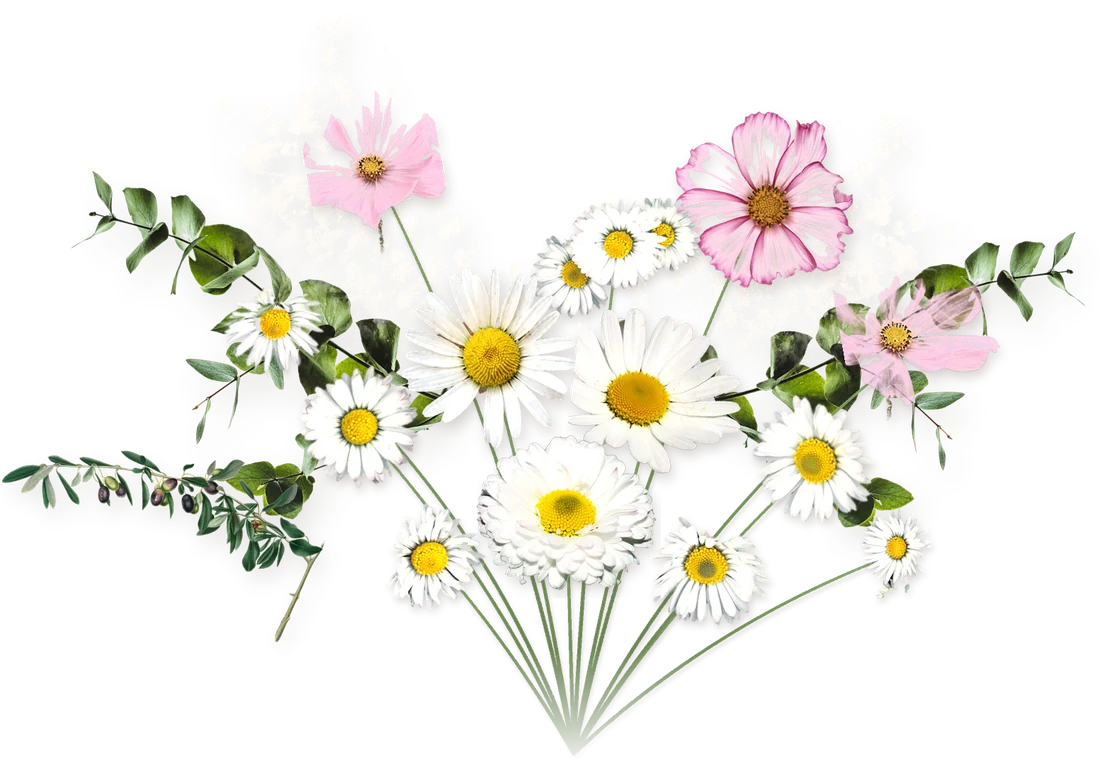
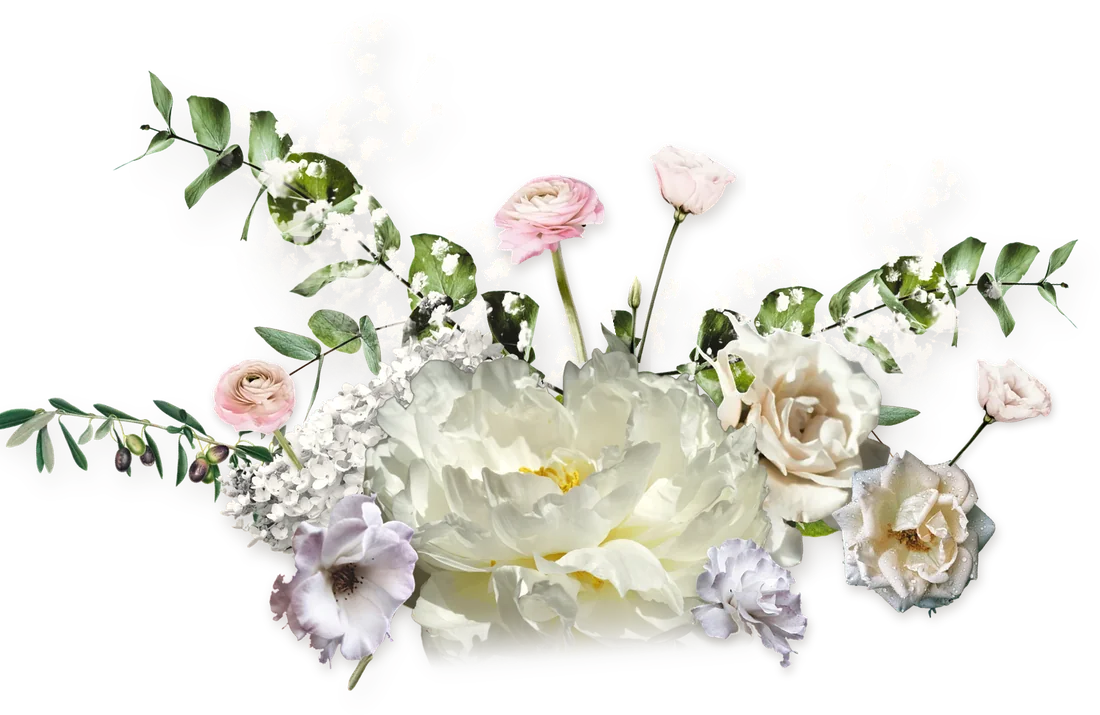
白色教堂：首頁的花改回原本的，往下捲的花換成整束真的小雛菊與波斯菊照片
- hero 窗框旁的兩簇花、範例頁文案與縮圖回到上一版
- 區塊標題的四束花改成整張照片直接去背，不再拼花、不畫莖：
  當日流程一束洋甘菊、小提醒三朵淡粉波斯菊、交通資訊一把小雛菊、出席回覆三朵波斯菊
- 倒數卡角上改成一朵淡粉波斯菊和一朵小雛菊
- 飄落的花保留雛菊瓣、淡粉波斯菊瓣與一整朵小雛菊
- 頁尾拿掉花，只留教堂的長椅；照片改成 cover，手機上不再露出照片上緣的接縫
- README 更新素材出處

Claude-Session: https://claude.ai/code/session_01A5i8X5BAqEyPRHZmwsGJnn

diff --git a/public/css/lobby-chapel.css b/public/css/lobby-chapel.css
@@ -8,9 +8,9 @@
              整座教堂變成白天的樣子 —— 大廳就是那個白天
      材質    有抹刀痕與細顆粒的乳白灰泥牆（不是純白）、被風吹動的透光白紗、
              彩繪玻璃落下的幾彩光暈、毛玻璃、霧面香檳金的細線
-     鮮花    窗框的腳下與肩上各一簇、區塊標題上一束一束、倒數卡的角上一小簇、頁尾一長排
-             （白色小雛菊為主、淡粉波斯菊次之，點綴香豌豆、洋桔梗，綠葉是尤加利、橄欖、滿天星；
-             真的照片去背後拼成的花藝，莖是畫的，鬆鬆地束在一起），一路飄著花瓣與小雛菊
+     鮮花    窗框的腳下與肩上各一簇（洋牡丹、洋桔梗、玫瑰、芍藥、繡球、滿天星、尤加利，真的照片去背後拼成的花藝）；
+             往下捲看到的花都是小雛菊與淡粉波斯菊：區塊標題上一束一束（整束真的照片去背）、倒數卡的角上一朵，
+             一路飄著雛菊瓣、淡粉波斯菊瓣與一整朵小雛菊
      背景    從頭到尾同一片灰泥牆，中間不穿插別的背景照片；偶爾有窗外的光打進來；
              最底下回到同一座教堂（照片的下半，一排一排的長椅）
      植物    鏡頭前失焦的橄欖枝（照片）、牆上晃動的橄欖枝影子、香檳金線描的橄欖／尤加利
@@ -294,15 +294,15 @@ body[data-lobby="white-church"]{
 /* ---- 窗框旁的鮮花 ----
    放在名牌裡（名牌疊在窗框上面，花才壓得住窗框與名牌的角），位置用窗框的高度算：
    窗框寬 = 高 / 1.4，名牌頂端在窗框下緣往上 --ov 的地方。
-   一大簇在窗框左下的腳邊（小雛菊為主，兩三枝淡粉波斯菊斜斜伸出去，尤加利、橄欖、滿天星），一小簇在右上的肩膀 */
+   一大簇在窗框左下的腳邊（芍藥、玫瑰、繡球、滿天星，尤加利往兩邊伸），一小簇在右上的肩膀 */
 .mc-bloom{position:absolute;z-index:2;pointer-events:none;background:center/contain no-repeat;
   filter:drop-shadow(0 12px 14px rgba(90,76,60,.16));animation:mc-bloom 9s ease-in-out infinite alternate;}
-.mc-bloom.is-base{width:calc(var(--arch-h) * .92);aspect-ratio:1100/760;
-  left:calc(50% - var(--arch-h) / 2.8);top:calc(var(--ov) + 4px);translate:-67% -90%;
+.mc-bloom.is-base{width:calc(var(--arch-h) * .92);aspect-ratio:1100/715;
+  left:calc(50% - var(--arch-h) / 2.8);top:calc(var(--ov) + 4px);translate:-60% -90%;
   background-image:url(../img/chapel/bloom-arch.webp);transform-origin:50% 90%;}
-.mc-bloom.is-shoulder{width:calc(var(--arch-h) * .4);aspect-ratio:541/729;
-  left:calc(50% + var(--arch-h) / 2.8);top:calc(var(--ov) - var(--arch-h) * .62);translate:-22% -78%;
-  background-image:url(../img/chapel/bloom-shoulder.webp);transform-origin:8% 96%;animation-delay:-4s;}
+.mc-bloom.is-shoulder{width:calc(var(--arch-h) * .5);aspect-ratio:560/481;
+  left:calc(50% + var(--arch-h) / 2.8);top:calc(var(--ov) - var(--arch-h) * .7);translate:-38% -50%;
+  background-image:url(../img/chapel/bloom-shoulder.webp);transform-origin:20% 70%;animation-delay:-4s;}
 @keyframes mc-bloom{to{rotate:1.6deg;scale:1.015;}}
 /* 沒有新人照片（沒有窗框）：肩上那簇收起來，腳邊那簇改放在名牌的左上角 */
 .mc-hero:not(:has(.mc-hero-arch .has-photo)) .mc-bloom.is-shoulder{display:none;}
@@ -336,8 +336,8 @@ body[data-hero-name="cn"] .mc-hero .mc-names{font-family:'Noto Serif TC',serif;f
 @keyframes mc-daylight{from{filter:brightness(1.7) saturate(.4);}}
 @media (max-width:640px){
   .mc-hero .hashtags{display:none;}
-  .mc-bloom.is-base{width:calc(var(--arch-h) * .7);translate:-50% -98%;}
-  .mc-bloom.is-shoulder{width:calc(var(--arch-h) * .32);translate:-26% -78%;}
+  .mc-bloom.is-base{width:calc(var(--arch-h) * .72);translate:-42% -98%;}
+  .mc-bloom.is-shoulder{width:calc(var(--arch-h) * .38);translate:-52% -50%;}
   .mc-olive-fg{width:180px;left:-10%;top:-3%;}
   .mc-olive-fg.is-b{width:150px;right:-14%;bottom:-3%;}
   .mc-stain i:nth-child(3){display:none;}
@@ -381,15 +381,15 @@ body[data-hero-name="cn"] .mc-hero .mc-names{font-family:'Noto Serif TC',serif;f
   border-radius:50%;background:radial-gradient(closest-side,rgba(90,76,60,.2),transparent);}
 .mc-obj{display:block;height:100%;background:center bottom/contain no-repeat;
   filter:drop-shadow(0 16px 14px rgba(90,76,60,.18));}
-/* 婚禮資訊是一對戒指（Deena Englard／Unsplash，去背）；其他區塊是一束一束的小雛菊、波斯菊，每區各不相同（拼成的花藝，出處見 README）。
+/* 婚禮資訊是一對戒指（Deena Englard／Unsplash，去背）；其他區塊是一束一束的小雛菊、波斯菊（整束真的照片去背，出處見 README）。
    花束比較寬，放在中間、底部對齊 */
 .mc-obj.o-rings{width:clamp(150px,18vw,200px);height:auto;aspect-ratio:640/219;align-self:center;}
 .mc-obj.o-rings{background-image:url(../img/chapel/rings.webp);}
 .mc-obj.o-posy{width:clamp(200px,24vw,280px);height:auto;align-self:flex-end;filter:drop-shadow(0 12px 12px rgba(90,76,60,.14));}
-.mc-obj.o-posy.p1{aspect-ratio:640/413;background-image:url(../img/chapel/posy-1.webp);}
-.mc-obj.o-posy.p2{aspect-ratio:640/512;background-image:url(../img/chapel/posy-2.webp);}
-.mc-obj.o-posy.p3{aspect-ratio:640/468;background-image:url(../img/chapel/posy-3.webp);}
-.mc-obj.o-posy.p4{aspect-ratio:640/375;background-image:url(../img/chapel/posy-4.webp);}
+.mc-obj.o-posy.p1{width:clamp(170px,19vw,230px);aspect-ratio:640/544;background-image:url(../img/chapel/posy-1.webp);}
+.mc-obj.o-posy.p2{width:clamp(160px,17vw,210px);aspect-ratio:560/489;background-image:url(../img/chapel/posy-2.webp);}
+.mc-obj.o-posy.p3{width:clamp(210px,24vw,280px);aspect-ratio:680/377;background-image:url(../img/chapel/posy-3.webp);}
+.mc-obj.o-posy.p4{width:clamp(230px,27vw,320px);aspect-ratio:680/229;background-image:url(../img/chapel/posy-4.webp);}
 .mc-head .block-title{margin:0;font:400 clamp(26px,3.6vw,38px)/1.15 'Cinzel','Noto Serif TC',serif;letter-spacing:.12em;
   text-transform:none;color:var(--mc-ink);}
 .mc-head .block-sub{margin:0;font-size:13px;letter-spacing:.4em;color:var(--mc-soft);}
@@ -472,11 +472,11 @@ body[data-hero-name="cn"] .mc-hero .mc-names{font-family:'Noto Serif TC',serif;f
 /* ---- 倒數：一塊毛玻璃（背景就是同一片牆） ---- */
 .mc-count .mc-band-inner{display:flex;justify-content:center;}
 .mc-count-body{padding:clamp(28px,4vw,44px) clamp(22px,5vw,56px);text-align:center;}
-/* 倒數卡的左上角斜插兩枝波斯菊、一朵小雛菊，莖收在卡片後面 */
-.mc-count-body::after{content:'';position:absolute;left:clamp(-110px,-8vw,-40px);top:clamp(-120px,-9vw,-70px);width:clamp(100px,12vw,150px);aspect-ratio:420/473;
+/* 倒數卡的左上角別著一朵淡粉波斯菊、旁邊一朵小雛菊 */
+.mc-count-body::after{content:'';position:absolute;left:clamp(-86px,-6vw,-30px);top:clamp(-84px,-6vw,-50px);width:clamp(96px,11vw,140px);aspect-ratio:420/381;
   background:url(../img/chapel/bloom-corner.webp) center/contain no-repeat;transform:rotate(-6deg);
   filter:drop-shadow(0 10px 12px rgba(90,76,60,.16));pointer-events:none;}
-@media (max-width:640px){.mc-count-body::after{left:-22px;top:-96px;width:92px;}}
+@media (max-width:640px){.mc-count-body::after{left:-18px;top:-70px;width:84px;}}
 .mc-count .cd-grid{margin:22px auto 0;}
 .mc-count .cd-unit{border-left:1px solid var(--mc-line);}
 .mc-count .cd-num{font-family:'Cinzel',serif;font-weight:400;color:var(--mc-ink);}
@@ -499,8 +499,7 @@ body[data-hero-name="cn"] .mc-hero .mc-names{font-family:'Noto Serif TC',serif;f
 .mc-sec .lc-go{color:var(--mc-gold);}
 
 /* ============================================================
-   頁尾：回到同一座教堂 —— hero 那張照片的下半，一排一排的長椅，從牆上慢慢淡出來；
-   長椅前、頁面最底下長著一排低低的小雛菊和波斯菊，像田邊長出來的（左右無縫接續）
+   頁尾：回到同一座教堂 —— hero 那張照片的下半，一排一排的長椅，從牆上慢慢淡出來
 ============================================================ */
 .mc-foot{position:relative;z-index:2;isolation:isolate;margin:clamp(70px,10vw,120px) 0 0;
   min-height:clamp(560px,86svh,860px);padding:clamp(20px,4vw,50px) 24px 0;
@@ -512,12 +511,6 @@ body[data-hero-name="cn"] .mc-hero .mc-names{font-family:'Noto Serif TC',serif;f
   mask-image:linear-gradient(180deg,transparent 18%,rgba(0,0,0,.55) 46%,#000 70%);}
 /* 照片偏冷白：跟 hero 一樣蓋一層很淡的暖 */
 .mc-foot-church::after{content:'';position:absolute;inset:0;background:rgba(250,238,218,.16);}
-.mc-foot-scene{position:absolute;z-index:-1;left:calc(50% - 50vw);width:100vw;bottom:0;height:clamp(120px,14vw,210px);
-  background:url(../img/chapel/bloom-meadow.webp) 50% 100%/auto 100% repeat-x;
-  filter:drop-shadow(0 8px 10px rgba(90,76,60,.12));}
-/* 花腳下一抹柔柔的亮，像光落在地上 */
-.mc-foot-scene::before{content:'';position:absolute;left:0;right:0;bottom:0;height:60%;z-index:-1;
-  background:linear-gradient(180deg,transparent,rgba(255,250,240,.55));}
 .mc-fin{font:italic 400 24px 'Cormorant Garamond',serif;color:var(--mc-gold);text-transform:none;letter-spacing:.02em;}
 
 /* 不要動畫的人：光、塵、紗、影子、植物、花都停下來，花瓣不飄 */

diff --git a/preview/white-church.html b/preview/white-church.html
@@ -75,12 +75,12 @@
 <!-- ============ 主畫面：蠟燭點完，天亮了 ============
      一張真的照片：一整排尖拱與肋拱、通到盡頭祭壇那扇尖頂窗的純白哥德式教堂。
      新人的照片放進一扇同樣是尖拱的窗框裡，站在走道盡頭 —— 那扇窗就是他們。
-     花：白色小雛菊＋淡粉波斯菊，像剛從田邊摘來的一把；窗框的腳下與肩上各一簇，一路飄著花瓣與小雛菊；
+     花：窗框的腳下與肩上各一簇鮮花（芍藥、玫瑰、洋桔梗、繡球、滿天星、尤加利），一路飄著花瓣與小雛菊；
      光：側窗斜斜照進來的光束、彩繪玻璃落在地上的幾彩光暈、光裡慢慢飄的微塵；
      整頁的牆是有抹刀痕與細顆粒的乳白灰泥，兩旁垂著被風吹動的白紗，牆上有橄欖枝的影子在晃。
      整頁的牆從頭到尾都是同一片灰泥，偶爾有窗外的光打進來（窗格形狀的光斑、斜斜的光束）；
      最底下回到同一座教堂，看見那一排一排的長椅。
-     區塊標題上一束一束小花束，每區各不相同（雛菊＋洋甘菊、波斯菊、雛菊＋香豌豆、雛菊＋波斯菊＋洋桔梗），婚禮資訊是一對戒指；底下一枝香檳金的線描橄欖葉。 -->
+     區塊標題上一束一束小雛菊、淡粉波斯菊，婚禮資訊是一對戒指；底下一枝香檳金的線描橄欖葉。 -->
 <div id="app">
   <section class="panel lobby mc-lobby" data-panel="lobby" data-scroll>
 
@@ -122,7 +122,7 @@
           <i class="mc-arch-gleam"></i>
         </figure>
         <div class="mc-cartouche">
-          <!-- 鮮花：一大簇小雛菊在窗框左下的腳邊（壓在名牌的角上），一小簇在窗框右上的肩膀，波斯菊往外伸 -->
+          <!-- 鮮花：一大簇在窗框左下的腳邊（壓在名牌的角上），一小簇在窗框右上的肩膀 -->
           <i class="mc-bloom is-base" aria-hidden="true"></i><i class="mc-bloom is-shoulder" aria-hidden="true"></i>
           <div class="mc-kicker"><span class="en">In the light of day, we gather</span><span class="cn">誠摯邀請您</span></div>
           <h1 class="mc-names"><span data-tpl="groomEn"></span><span class="amp">&amp;</span><span data-tpl="brideEn"></span></h1>
@@ -324,10 +324,9 @@
         </div>
       </section>
 
-      <!-- 頁尾：回到同一座教堂 —— 照片的下半，一排一排的長椅；前面一排低低的雛菊和波斯菊，像田邊長出來的 -->
+      <!-- 頁尾：回到同一座教堂 —— 照片的下半，一排一排的長椅 -->
       <footer class="mc-foot">
         <div class="mc-foot-church" aria-hidden="true"></div>
-        <div class="mc-foot-scene" aria-hidden="true"></div>
         <div class="mc-fin">in the light, together</div>
         <span>made for <span data-tpl="couple"></span>・小港製作所 設計製作</span>
       </footer>

diff --git a/public/lobby-chapel.html b/public/lobby-chapel.html
@@ -84,12 +84,12 @@
 <!-- ============ 主畫面：蠟燭點完，天亮了 ============
      一張真的照片：一整排尖拱與肋拱、通到盡頭祭壇那扇尖頂窗的純白哥德式教堂。
      新人的照片放進一扇同樣是尖拱的窗框裡，站在走道盡頭 —— 那扇窗就是他們。
-     花：白色小雛菊＋淡粉波斯菊，像剛從田邊摘來的一把；窗框的腳下與肩上各一簇，一路飄著花瓣與小雛菊；
+     花：窗框的腳下與肩上各一簇鮮花（芍藥、玫瑰、洋桔梗、繡球、滿天星、尤加利），一路飄著花瓣與小雛菊；
      光：側窗斜斜照進來的光束、彩繪玻璃落在地上的幾彩光暈、光裡慢慢飄的微塵；
      整頁的牆是有抹刀痕與細顆粒的乳白灰泥，兩旁垂著被風吹動的白紗，牆上有橄欖枝的影子在晃。
      整頁的牆從頭到尾都是同一片灰泥，偶爾有窗外的光打進來（窗格形狀的光斑、斜斜的光束）；
      最底下回到同一座教堂，看見那一排一排的長椅。
-     區塊標題上一束一束小花束，每區各不相同（雛菊＋洋甘菊、波斯菊、雛菊＋香豌豆、雛菊＋波斯菊＋洋桔梗），婚禮資訊是一對戒指；底下一枝香檳金的線描橄欖葉。 -->
+     區塊標題上一束一束小雛菊、淡粉波斯菊，婚禮資訊是一對戒指；底下一枝香檳金的線描橄欖葉。 -->
 <div id="app">
   <section class="panel lobby mc-lobby" data-panel="lobby" data-scroll>
 
@@ -131,7 +131,7 @@
           <i class="mc-arch-gleam"></i>
         </figure>
         <div class="mc-cartouche">
-          <!-- 鮮花：一大簇小雛菊在窗框左下的腳邊（壓在名牌的角上），一小簇在窗框右上的肩膀，波斯菊往外伸 -->
+          <!-- 鮮花：一大簇在窗框左下的腳邊（壓在名牌的角上），一小簇在窗框右上的肩膀 -->
           <i class="mc-bloom is-base" aria-hidden="true"></i><i class="mc-bloom is-shoulder" aria-hidden="true"></i>
           <div class="mc-kicker"><span class="en">In the light of day, we gather</span><span class="cn">誠摯邀請您</span></div>
           <h1 class="mc-names"><span data-tpl="groomEn"></span><span class="amp">&amp;</span><span data-tpl="brideEn"></span></h1>
@@ -333,10 +333,9 @@
         </div>
       </section>
 
-      <!-- 頁尾：回到同一座教堂 —— 照片的下半，一排一排的長椅；前面一排低低的雛菊和波斯菊，像田邊長出來的 -->
+      <!-- 頁尾：回到同一座教堂 —— 照片的下半，一排一排的長椅 -->
       <footer class="mc-foot">
         <div class="mc-foot-church" aria-hidden="true"></div>
-        <div class="mc-foot-scene" aria-hidden="true"></div>
         <div class="mc-fin">in the light, together</div>
         <span>made for <span data-tpl="couple"></span>・小港製作所 設計製作</span>
       </footer>

diff --git a/public/samples/index.html b/public/samples/index.html
@@ -426,7 +426,7 @@ footer a{color:inherit;}
       <div class="shot" style="background:#f6f2ea"><img src="/samples/thumbs/white-church.jpg" alt="白色教堂版型的首頁" loading="lazy" width="390" height="760"></div>
       <div class="body">
         <h2><span class="en">White Church</span><span class="cn">白色教堂</span></h2>
-        <p class="mood">午夜點亮三根蠟燭，天一亮，是一座純白的哥德式教堂。透光白紗、彩繪玻璃的光暈，與一把一把白色小雛菊、淡粉波斯菊。</p>
+        <p class="mood">午夜點亮三根蠟燭，天一亮，是一座純白的哥德式教堂。透光白紗、彩繪玻璃的光暈，與滿滿的鮮花。</p>
         <div class="dress"><span class="lab">適合的婚紗</span><span class="chip">教堂證婚</span><span class="chip">長頭紗</span><span class="chip">蕾絲拖尾</span></div>
         <div class="foot">
           <span class="swatches" aria-hidden="true"><i style="background:#f6f2ea"></i><i style="background:#a88d5f"></i><i style="background:#837b86"></i><i style="background:#3b3540"></i></span>

diff --git a/scripts/sample-catalog.js b/scripts/sample-catalog.js
@@ -101,7 +101,7 @@ export const SAMPLE_CATALOG = {
   'white-church': {
     plan: 'premium',
     name: ['White Church', '白色教堂'],
-    mood: '午夜點亮三根蠟燭，天一亮，是一座純白的哥德式教堂。透光白紗、彩繪玻璃的光暈，與一把一把白色小雛菊、淡粉波斯菊。',
+    mood: '午夜點亮三根蠟燭，天一亮，是一座純白的哥德式教堂。透光白紗、彩繪玻璃的光暈，與滿滿的鮮花。',
     dress: ['教堂證婚', '長頭紗', '蕾絲拖尾'],
     colors: ['#f6f2ea', '#a88d5f', '#837b86', '#3b3540'],
   },

diff --git a/README.md b/README.md
@@ -347,7 +347,8 @@ HTML 裡直接寫 `{{couple}}`、`{{date}}`、`{{hashtag}}` 這類 token，
 > | `chapel/nave.webp` | 大廳 hero、頁尾（照片的下半，一排一排的長椅）、開場（candle）的房間（午夜壓暗、天亮變回白天） | 純白的哥德式教堂（尖拱、肋拱、走道通到祭壇的尖頂窗），新人提供 | 轉成 webp |
 > | `chapel/plaster.webp` | 整頁的牆：有抹刀痕的乳白灰泥（上面再平鋪一層 SVG 雜訊當細顆粒，寫在 lobby-chapel.css） | — | 程式畫的：低頻的深淺 ＋ 一道道彎弧的抹刀痕（一側是比較利的刀口），720px 可無縫平鋪 |
 > | `chapel/olive-line.svg`、`eucalyptus-line.svg` | 卡片角落伸出來的橄欖／尤加利（霧面香檳金線描） | — | 程式畫的向量線條 |
-> | `chapel/bloom-arch.webp`、`bloom-shoulder.webp`、`bloom-corner.webp`、`bloom-meadow.webp`、`posy-1`～`posy-4.webp`、`fall-daisy.webp`、`fall-daisy-2.webp` | hero 窗框左下腳邊的一大簇、窗框右上肩膀的一小簇、倒數卡角上斜插的兩枝波斯菊、頁尾長椅前一排低低的花草（左右無縫接續）、當日流程／小提醒／交通資訊／出席回覆標題上的四束花（雛菊＋洋甘菊、波斯菊、雛菊＋香豌豆、雛菊＋波斯菊＋洋桔梗）、一路飄下來的小雛菊 | 拼起來的花藝，白色小雛菊為主、淡粉波斯菊次之，用到：[黑底上的一把雛菊](https://unsplash.com/photos/r8tUms5niBo)・Ashwin A、[暗底上的一朵雛菊](https://unsplash.com/photos/5n4DXiE0F60)・Daniel、[黑底上的雛菊](https://unsplash.com/photos/OvYqKgpk6EA)・Олександр К、[一片小雛菊](https://unsplash.com/photos/CoG1AXUsylg)・Wyxina Tresse、[白底上的淡粉波斯菊](https://unsplash.com/photos/l7B7VjYL7pk)・Katriona McCarthy、[玻璃瓶裡的波斯菊](https://unsplash.com/photos/FKWU06fs4sY)・Natalie Kinnear、[淡粉香豌豆](https://unsplash.com/photos/DBuWV2l2DPU)・Natalie Kinnear、[黑底上的滿天星](https://unsplash.com/photos/FolJQXGJ7FE)・After Exposure Studio、[白底上的尤加利](https://unsplash.com/photos/hX_hf2lPpUU)・Annie Spratt，再加上秘密花園的粉白洋桔梗（`secret-garden/flowers-row` 拆成一朵一朵）、植物信箋的橄欖枝 | 黑底的依亮度去背、白底的依「離背景多遠」去背；一片小雛菊拆成一朵一朵、偏藍的白拉回暖白；波斯菊去掉玻璃瓶、顏色拉成淡粉（不要桃紅、偏紫的拉暖）；花頭各自去背後，莖與草葉是程式畫的，鬆鬆地束在一起（不紮成圓球）；每一枝加一層很淡的影子再疊起來 |
+> | `chapel/bloom-arch.webp`、`bloom-shoulder.webp` | hero 窗框左下腳邊的一大簇、窗框右上肩膀的一小簇 | 拼起來的花藝，用到：[黑底上的白芍藥](https://unsplash.com/photos/-2gyq6wt-3I)・Maria Nikolova、[黑底上的滿天星](https://unsplash.com/photos/FolJQXGJ7FE)・After Exposure Studio、[黑底上的白繡球](https://unsplash.com/photos/aDl_GZ-ETec)・valentin hintikka、[暗底上的三朵淡粉白玫瑰](https://unsplash.com/photos/Xh4TROIQM3A)・Gomezgai Jere、[白底上的尤加利](https://unsplash.com/photos/hX_hf2lPpUU)・Annie Spratt，再加上春日溫室的白玫瑰（`orangerie/white-roses`、`white-rose`、`bloom-rose1`）、秘密花園的粉色洋桔梗（`secret-garden/flowers-row` 拆成一枝一枝）、植物信箋的橄欖枝 | 黑底的依亮度去背（芍藥補洞、底部被畫框切平的地方淡掉、偏黃綠的白拉回暖白；滿天星只留清楚的小花、顏色拉回乳白；繡球補暖、提亮）、白底的依「離背景多遠」去背；洋牡丹與洋桔梗切掉花梗只留花頭；每一枝加一層很淡的影子再疊起來 |
+> | `chapel/posy-1`～`posy-4.webp`、`bloom-corner.webp`、`fall-daisy.webp`、`fall-daisy-2.webp` | 往下捲看到的花：當日流程（一束洋甘菊）、小提醒（三朵淡粉波斯菊）、交通資訊（一把小雛菊）、出席回覆（三朵波斯菊排成一排）標題上的花，倒數卡角上的一朵波斯菊和一朵小雛菊，一路飄下來的小雛菊 | [黑底上一瓶洋甘菊](https://unsplash.com/photos/ojgZv6gKw-U)・Ekaterina Suleymanova、[白底上玻璃瓶裡的粉色波斯菊](https://unsplash.com/photos/6tpYmwa0Mh8)・Natalie Kinnear、[黑底上的一把雛菊](https://unsplash.com/photos/w1piBaklCis)・Travis Leery、[三個玻璃瓶裡的波斯菊](https://unsplash.com/photos/FKWU06fs4sY)・Natalie Kinnear、[白底上的淡粉波斯菊](https://unsplash.com/photos/l7B7VjYL7pk)・Katriona McCarthy、[一片小雛菊](https://unsplash.com/photos/CoG1AXUsylg)・Wyxina Tresse | 每一束都是整張照片直接去背（黑底依「離背景多遠」、白底一樣），不另外拼花、不畫莖；花瓶以下切掉、底部淡掉；偏冷的白拉回暖白、暗部提亮一點；波斯菊的粉調淡一點（不要桃紅）。飄落的小雛菊是那片小雛菊拆出來的一朵一朵 |
 > | `chapel/divider.svg` | 每個區塊標題底下：兩條細線、中間一顆菱形、兩邊各一小枝橄欖葉 | — | 程式畫的向量線條 |
 > | `chapel/candle-top.webp`、`candle-base.webp`、`candle-body.webp` | 開場的三根蠟燭（不管哪個版型用燭光開場都是這根） | [一根白蠟燭](https://unsplash.com/photos/DfGYqdUl2WY)・KaLisa Veer | 去背，擦掉燭芯以上的火、重畫燒過的燭芯；再切成燭頂、燭身下半、一段燭身，疊起來高矮都不會拉長 |
 > | `chapel/flame.webp` | 開場點亮的火焰 | [黑底裡的一根蠟燭](https://unsplash.com/photos/Fqqrfvq0Zgg)・PhotographyCourse | 只取火焰，依亮度轉成透明度 |
@@ -464,7 +465,7 @@ HTML 裡直接寫 `{{couple}}`、`{{date}}`、`{{hashtag}}` 這類 token，
 | monet-garden | ✅ 莫內花園・流動油畫：莫內真跡的掃描（日本橋、塞納河、罌粟花田、柳樹、維特伊的花園小徑、國會大廈日落、阿讓特伊的花園），水面在 canvas 上一直流動；真的金框（照片做成九宮格）、真的亞麻畫布、錦緞壁紙的展牆、美術館說明卡、黃銅名牌、阿讓特伊的明信片；畫裡的東西跑到框外面來（大理花、哈森的蜀葵與罌粟從畫框與卡片邊一筆刷出來，蝴蝶在飛、花瓣在飄，故事展牆的角落一瓶塞尚的花） ＋ 捲動編排（hero 的池水一直流動、往下捲畫慢慢沉下去；每一幅小畫捲到時從釘子上擺進來、再一筆一筆刷上去；故事展牆的投射燈隨捲動滑過；倒數時夕陽的光越捲越暖），素材見上面〈莫內花園的素材〉 | `lobby-monet.html` |
 | outdoor-party | ✅ 美式戶外婚禮派對：開場露出來的那片藍天、綠地、遠山就是 hero，草地上擺著野餐（籐籃、一瓶雛菊、琺瑯杯、一籃蘋果），幾顆漏網的霧面粉彩氣球一直往上飄；三角旗資訊卡（上緣是真的紅白格紋布、後面探出野花）、長桌派對與野花玻璃罐的拍立得、字母板的流程（旁邊老銀餐具與紅琺瑯杯）、綁著三顆粉彩氣球的「Just Married」老福特小貨車、真的戶外婚宴當故事的底、黃昏亮燈的穀倉當倒數的底、入場券、彩色園遊券 ＋ 捲動編排（草原往上退；野花從卡片後面長出來；三角旗一面一面翻下來；小貨車從右邊開進來；拍立得跟著捲動擺；倒數的串燈一顆一顆亮、穀倉越來越亮，全亮了就放煙火），素材見上面〈美式戶外派對的素材〉 | `lobby-party.html` |
 | morning-window | ✅ 侘寂（Wabi-Sabi）：真的照片（窗前的一瓶鬱金香、灰泥牆、牆上窗格形狀的陽光、亞麻布、照著陽光的紗簾），顏色都是褪過的大地色 ＋ 「我們的故事」是一本攤開的筆記本，接著一張早餐桌巾：去背的可頌／一枝乾燥的玫瑰／素色抱枕／一盆室內植物（這一帶不放新人照片，免得跟下一區「相遇之間」重複）＋ 區塊標題上是去背的小物（乾燥的玫瑰、白色花瓶、素色抱枕、攤開的書、一枝粉色鬱金香，不放在框裡）＋ 新人照片 1 處（倒數旁）＋ 捲動編排（小物一樣樣落到桌上、窗光滑過桌面、倒數時紗簾越捲越暖），素材見上面〈晨光房間的照片素材〉 | `lobby-window.html` |
-| white-church | ✅ 神聖、純淨、通透：開場在午夜的教堂點亮三根真的蠟燭 → 燭火熄掉、天亮 → 大廳是同一座純白的哥德式教堂，新人的封面照放進一扇尖拱窗框，站在走道盡頭；側窗的光束、光裡飄的微塵、彩繪玻璃落在長椅上的幾彩光暈；整頁從頭到尾同一片有抹刀痕與細顆粒的乳白灰泥牆（中間不穿插別的背景照片），偶爾有窗外的光打進來（窗格形狀的光斑、斜斜的光束，牆上橄欖枝的影子跟著變清楚），最底下回到同一座教堂、看見一排一排的長椅；兩旁被風吹動的白紗、鏡頭前失焦的橄欖枝；霧面香檳金的細線（窗框、卡片內框、標題下的橄欖葉分隔、卡片角落的尤加利與橄欖線描）；鮮花：像剛從田邊摘來的白色小雛菊與淡粉波斯菊（點綴香豌豆、洋桔梗、滿天星、尤加利），窗框左下腳邊一大簇、右上肩膀一小簇、區塊標題上一束一束各不相同、倒數卡角上斜插兩枝波斯菊、頁尾長椅前一排低低的花草，一路飄著雛菊瓣、淡粉波斯菊瓣與一整朵小雛菊；玻璃感：照片壓在厚玻璃裡（反光隨捲動滑過）、毛玻璃的卡；婚禮資訊的標題是一對去背的戒指；新人照片共 7 處，素材見上面〈白色教堂的素材〉 | `lobby-chapel.html` |
+| white-church | ✅ 神聖、純淨、通透：開場在午夜的教堂點亮三根真的蠟燭 → 燭火熄掉、天亮 → 大廳是同一座純白的哥德式教堂，新人的封面照放進一扇尖拱窗框，站在走道盡頭；側窗的光束、光裡飄的微塵、彩繪玻璃落在長椅上的幾彩光暈；整頁從頭到尾同一片有抹刀痕與細顆粒的乳白灰泥牆（中間不穿插別的背景照片），偶爾有窗外的光打進來（窗格形狀的光斑、斜斜的光束，牆上橄欖枝的影子跟著變清楚），最底下回到同一座教堂、看見一排一排的長椅；兩旁被風吹動的白紗、鏡頭前失焦的橄欖枝；霧面香檳金的細線（窗框、卡片內框、標題下的橄欖葉分隔、卡片角落的尤加利與橄欖線描）；鮮花：窗框左下腳邊一大簇、右上肩膀一小簇（洋牡丹、洋桔梗、白玫瑰、滿天星、尤加利）；往下捲看到的都是小雛菊與淡粉波斯菊（區塊標題上一束一束、倒數卡角上一朵），一路飄著雛菊瓣、淡粉波斯菊瓣與一整朵小雛菊；玻璃感：照片壓在厚玻璃裡（反光隨捲動滑過）、毛玻璃的卡；婚禮資訊的標題是一對去背的戒指；新人照片共 7 處，素材見上面〈白色教堂的素材〉 | `lobby-chapel.html` |
 
 只有 Night Sky 的大廳是深色的，子頁暫時還是淺色版（見 common.css）。
 每個版型各有一頁示範（`preview/botanical-letter.html`、`preview/secret-garden.html`、`preview/spring-orangerie.html`、`preview/night-sky.html`、`preview/french-manor.html`、`preview/monet-garden.html`、`preview/outdoor-party.html`、`preview/morning-window.html`、`preview/white-church.html`）。右下角都可以切換開場。
